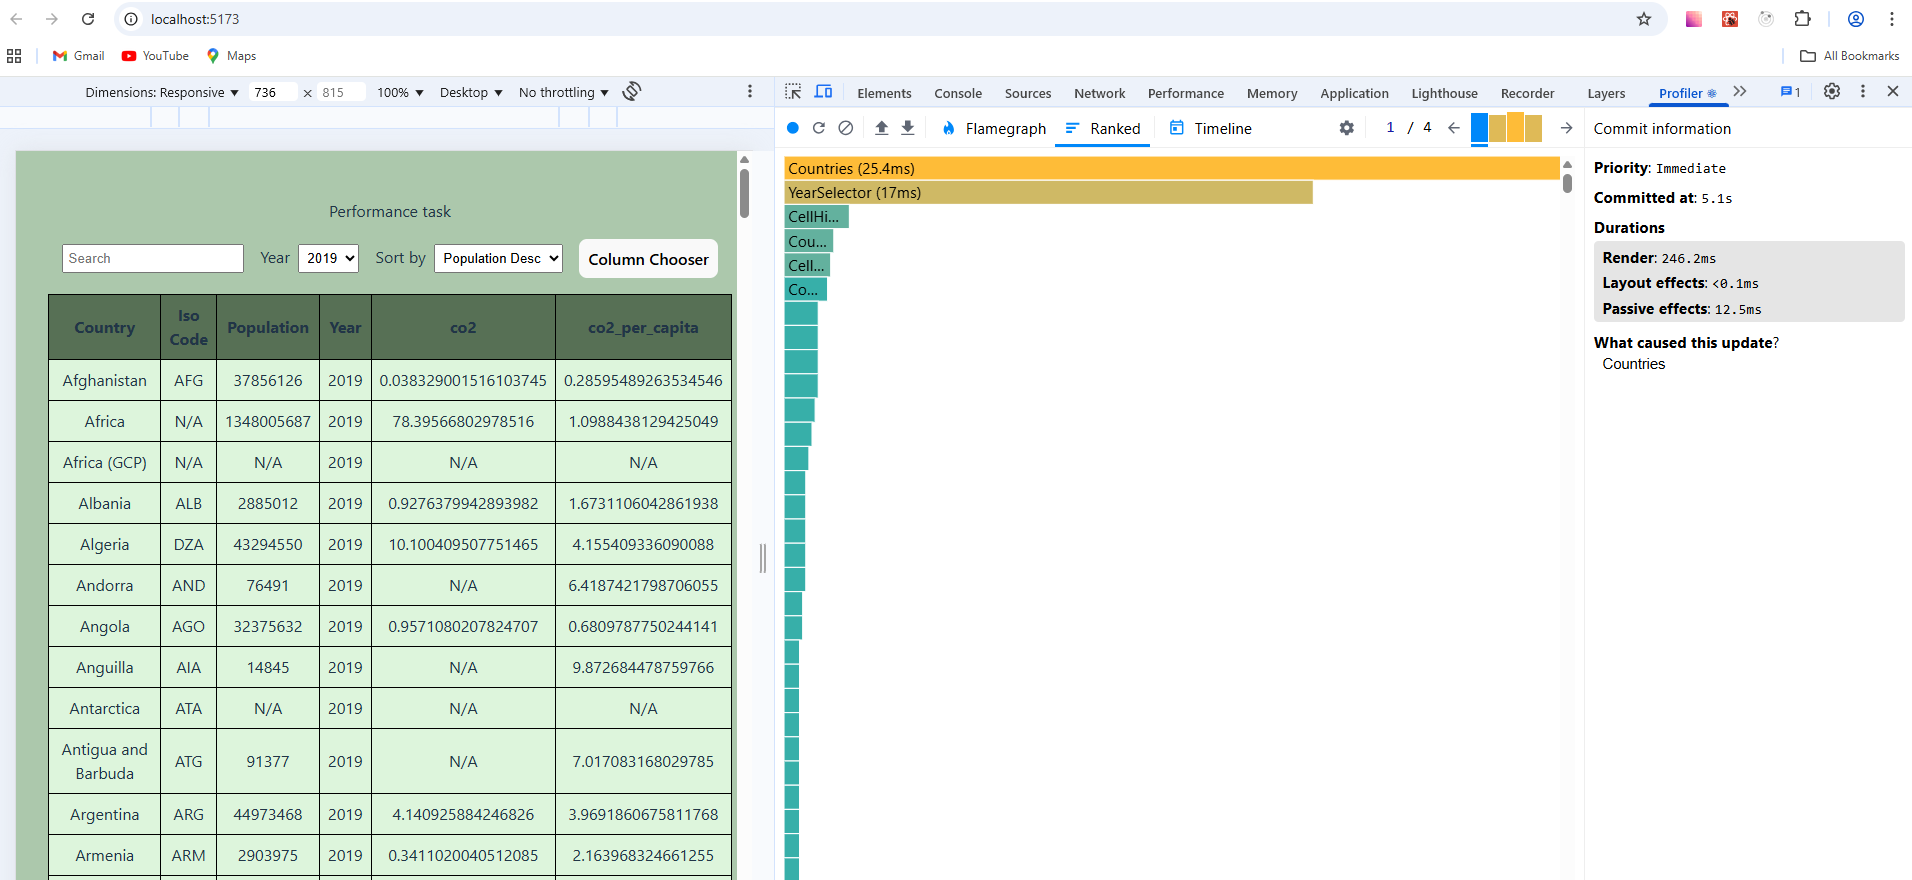
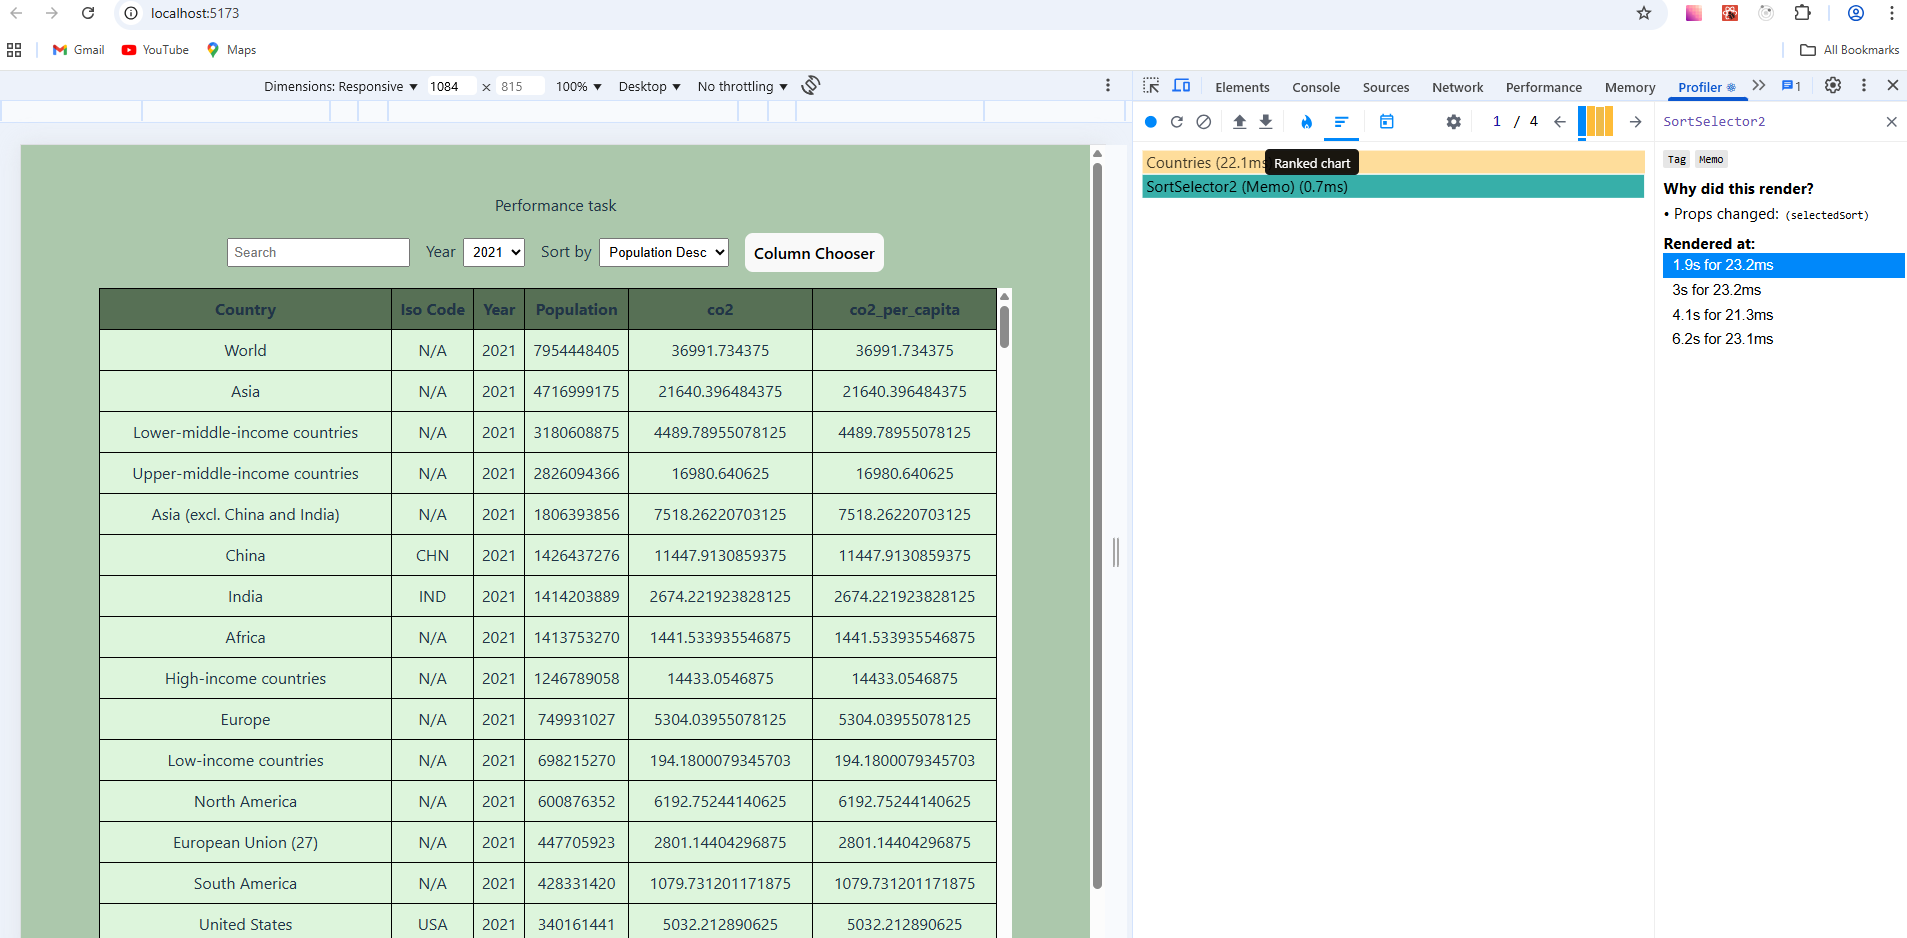
docs: add results of analysis after optimization in readme file

diff --git a/rs-react-app/src/components/Countries/hooks/useCountries.tsx b/rs-react-app/src/components/Countries/hooks/useCountries.tsx
@@ -68,7 +68,7 @@ export const useCountries = (countriesData: CountriesData) => {
     return years;
   }, [countries, countriesData]);
 
-  const onSort = (sort: string, array: CustomCountry[]) => {
+  const onSort = useCallback((sort: string, array: CustomCountry[]) => {
     let sortedArray: CustomCountry[] = [];
     switch (sort) {
       case 'name_asc': {
@@ -130,7 +130,7 @@ export const useCountries = (countriesData: CountriesData) => {
       }
     }
     return sortedArray;
-  };
+  }, []);
 
   const years = useMemo(() => getYears(), [getYears]);
   const latestYear = years.at(-1);

diff --git a/README.md b/README.md
@@ -35,7 +35,48 @@ Before Optimization:
 - Render Duration: 70ms
 - Flame Graph: Visual representation of component render times.
   ![alt text](image-5.png)
-- Ranked Chart: Sorted list of components by render duration.
-  ![alt text](image-4.png)
 
-Based on analysis columns selection and year selection take more time than other operations.
+
+Based on analysis columns selection and sorting take more time than other operations.
+Apart from that, it's visible from charts that YearSelector re-renders when Sorting, search, column selection is occurred.
+
+After optimization:
+1. Sorting
+
+- Commit Duration: 23.2ms
+- Render Duration: 23.2ms
+- Flame Graph: Visual representation of component render times.
+![alt text](image-4.png)
+- Ranked Chart: Sorted list of components by render duration.
+![alt text](image-1.png)
+
+2. Year Selection
+
+- Commit Duration:282.7ms
+- Render Duration: 269.8ms
+- Flame Graph: Visual representation of component render times.
+![alt text](image-13.png)
+- Ranked Chart: Sorted list of components by render duration.
+![alt text](image-12.png)
+
+3. Column Selection
+
+- Commit Duration: 429.2ms
+- Render Duration: 409.7ms
+- Flame Graph: Visual representation of component render times.
+![alt text](image-17.png)
+- Ranked Chart: Sorted list of components by render duration.
+![alt text](image-16.png)
+
+4. Search
+
+- Commit Duration: 7.2ms
+- Render Duration: 7.2ms
+- Flame Graph: Visual representation of component render times.
+![alt text](image-14.png)
+- Ranked Chart: Sorted list of components by render duration.
+![alt text](image-15.png)
+
+As a result of optimization, render and commit duration are decreased significantly for Sorting and Search operations.
+For Columns selection, rendering duration was decreased on 4.5ms, for Year Selection - 1.6ms.
+From charts analysis it's noticed that YearSelector component is not re-rendered during operations where YearSelector is not involved.
